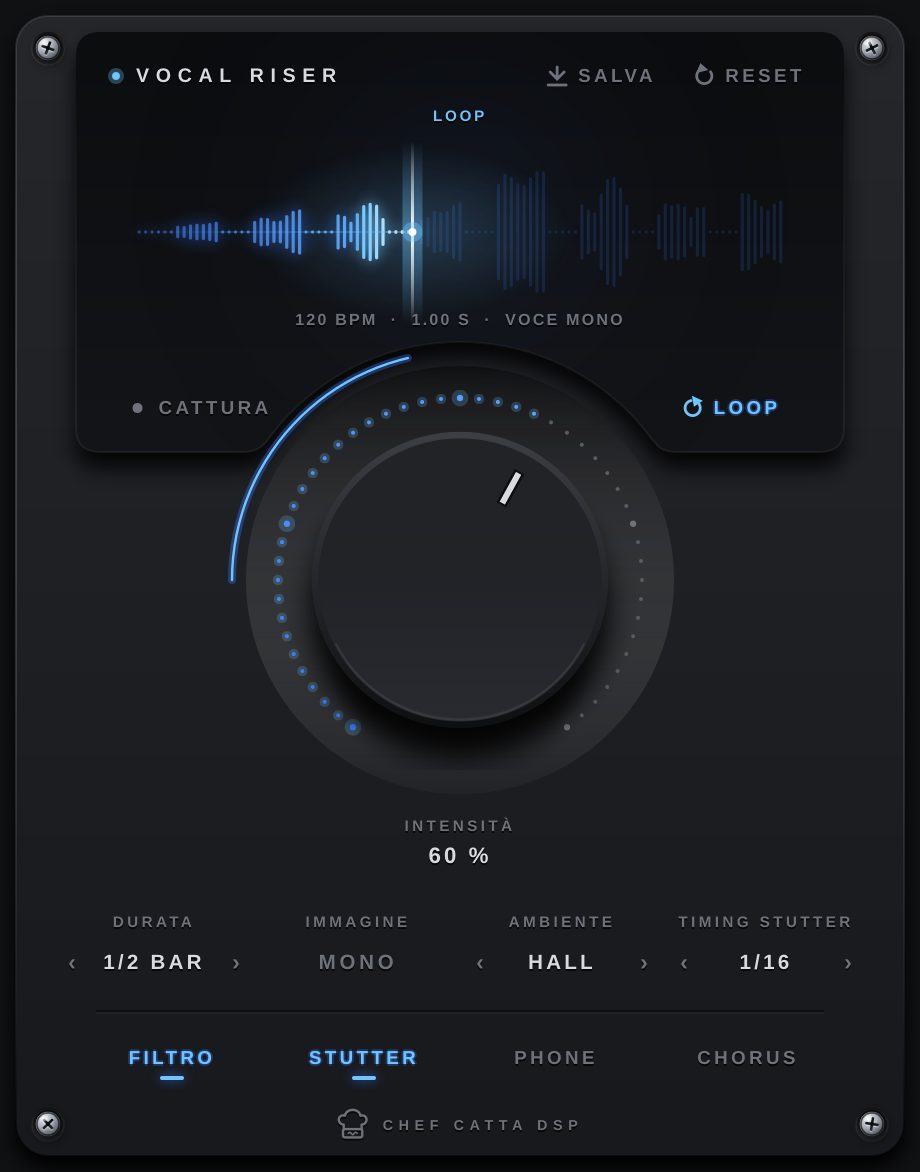
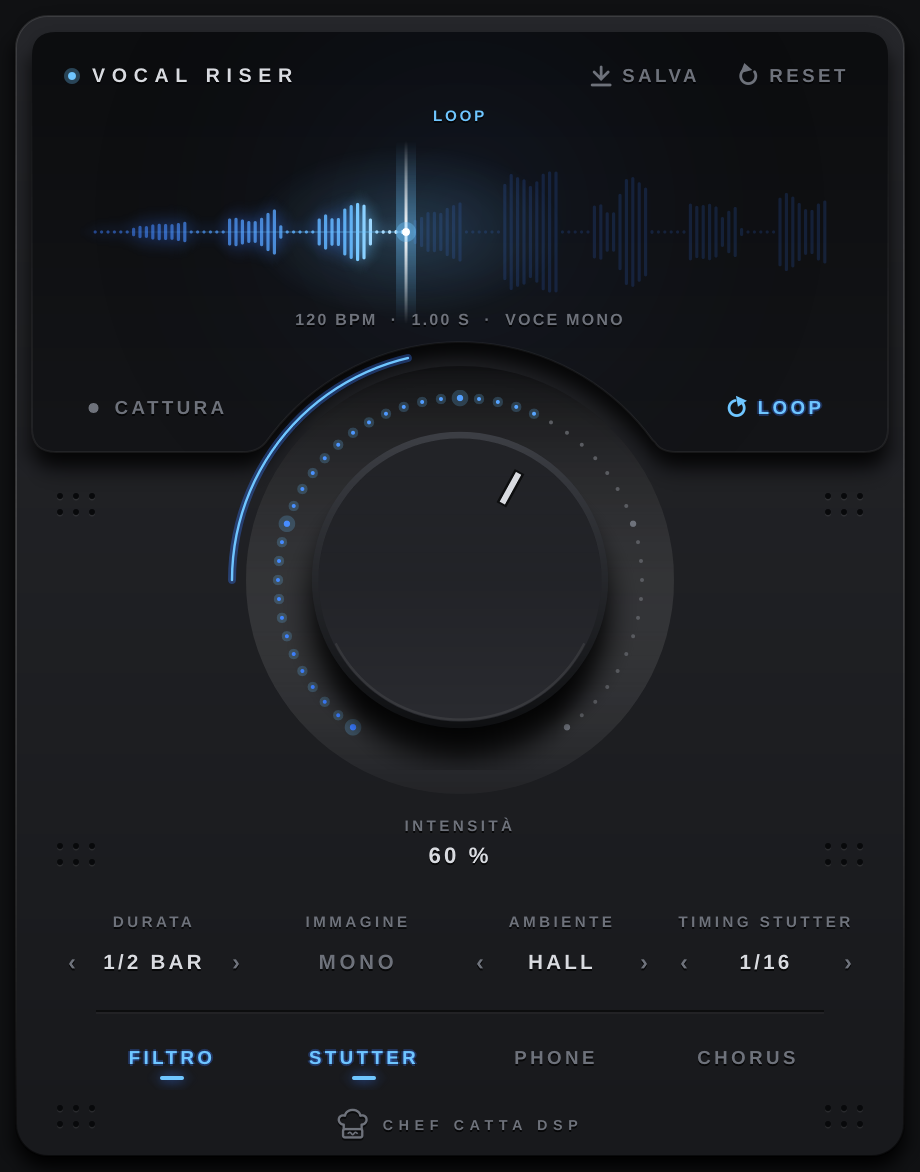
Tolte le viti, forellini decorativi negli spazi vuoti
Claude-Session: https://claude.ai/code/session_01HaF7XKr7HpkpQMPQsrDZc5

diff --git a/Source/PluginEditor.cpp b/Source/PluginEditor.cpp
@@ -410,77 +410,20 @@ void ArrowSelector::paint (juce::Graphics& g)
 }
 
 //==============================================================================
-// Vite a croce in metallo, vista dall'alto con luce da in alto a sinistra
-static void drawScrew (juce::Graphics& g, juce::Point<float> c, float r, float angle)
+// Griglia di forellini incisi nel pannello (decorazione)
+static void drawDotGrid (juce::Graphics& g, juce::Point<float> origin, int cols, int rows, float spacing, float dir = 1.0f)
 {
-    // svasatura: incavo circolare nel pannello in cui siede la vite
-    {
-        const float sr = r * 1.45f;
-        juce::Path s;
-        s.addEllipse (c.x - sr, c.y - sr, sr * 2.0f, sr * 2.0f);
-        g.setGradientFill (juce::ColourGradient (juce::Colour (0xff050607), c.x, c.y - sr,
-                                                 juce::Colour (0xff2a2c31), c.x, c.y + sr, false));
-        g.fillPath (s);
-        g.setColour (juce::Colours::white.withAlpha (0.08f));
-        g.drawEllipse (c.x - sr, c.y - sr + 0.6f, sr * 2.0f, sr * 2.0f, 0.8f);
-    }
-
-    juce::Path head;
-    head.addEllipse (c.x - r, c.y - r, r * 2.0f, r * 2.0f);
-
-    // ombra proiettata sul metallo
-    juce::DropShadow (juce::Colours::black.withAlpha (0.9f), juce::roundToInt (r * 0.9f), { 1, juce::roundToInt (r * 0.35f) }).drawForPath (g, head);
-
-    // rondella
-    const float wr = r * 1.12f;
-    g.setGradientFill (juce::ColourGradient (juce::Colour (0xff9aa0a8), c.x - wr, c.y - wr, juce::Colour (0xff2b2e33), c.x + wr, c.y + wr, false));
-    g.fillEllipse (c.x - wr, c.y - wr, wr * 2.0f, wr * 2.0f);
-
-    // testa bombata: gradiente radiale decentrato verso la luce
-    juce::ColourGradient dome (juce::Colour (0xffe9ecf0), c.x - r * 0.35f, c.y - r * 0.45f,
-                               juce::Colour (0xff3b3f46), c.x + r * 0.9f, c.y + r * 0.9f, true);
-    dome.addColour (0.45, juce::Colour (0xffa3a9b2));
-    dome.addColour (0.8, juce::Colour (0xff5a5f68));
-    g.setGradientFill (dome);
-    g.fillPath (head);
-
-    // finitura spazzolata concentrica, molto leggera
-    for (int i = 1; i < 6; ++i)
-    {
-        const float rr = r * (float) i / 6.0f;
-        g.setColour (juce::Colours::white.withAlpha (i % 2 ? 0.035f : 0.0f));
-        g.drawEllipse (c.x - rr, c.y - rr, rr * 2.0f, rr * 2.0f, 0.6f);
-    }
-
-    // croce Phillips incisa (ombra interna + bordo illuminato)
-    {
-        const float L = r * 0.62f, wdt = r * 0.24f;
-        juce::Path cross;
-        cross.addRoundedRectangle (-L, -wdt * 0.5f, L * 2.0f, wdt, wdt * 0.3f);
-        cross.addRoundedRectangle (-wdt * 0.5f, -L, wdt, L * 2.0f, wdt * 0.3f);
-        cross.setUsingNonZeroWinding (true);
-        const auto tf = juce::AffineTransform::rotation (angle).translated (c);
-
-        g.setColour (juce::Colours::white.withAlpha (0.35f));
-        g.fillPath (cross, tf.translated (0.0f, 0.7f));              // bordo inferiore illuminato
-        g.setGradientFill (juce::ColourGradient (juce::Colour (0xff0d0e10), c.x, c.y - L,
-                                                 juce::Colour (0xff2a2d32), c.x, c.y + L, false));
-        g.fillPath (cross, tf);
-        juce::Path centre;
-        centre.addEllipse (-wdt * 0.7f, -wdt * 0.7f, wdt * 1.4f, wdt * 1.4f);
-        g.setColour (juce::Colour (0xff08090a));
-        g.fillPath (centre, tf);
-    }
-
-    // riflesso speculare
-    juce::ColourGradient spec (juce::Colours::white.withAlpha (0.75f), c.x - r * 0.4f, c.y - r * 0.5f,
-                               juce::Colours::white.withAlpha (0.0f), c.x - r * 0.4f + r * 0.55f, c.y - r * 0.5f, true);
-    g.setGradientFill (spec);
-    g.fillEllipse (c.x - r * 0.85f, c.y - r * 0.9f, r * 0.9f, r * 0.7f);
-
-    // bordo della testa
-    g.setColour (juce::Colours::black.withAlpha (0.55f));
-    g.drawEllipse (c.x - r, c.y - r, r * 2.0f, r * 2.0f, 0.8f);
+    for (int rI = 0; rI < rows; ++rI)
+        for (int cI = 0; cI < cols; ++cI)
+        {
+            const float x = origin.x + dir * (float) cI * spacing;
+            const float y = origin.y + (float) rI * spacing;
+            const float rad = 1.5f;
+            g.setColour (juce::Colours::white.withAlpha (0.07f));               // bordo illuminato in basso
+            g.fillEllipse (x - rad, y - rad + 0.8f, rad * 2.0f, rad * 2.0f);
+            g.setColour (juce::Colour (0xff08090b));                             // foro
+            g.fillEllipse (x - rad, y - rad, rad * 2.0f, rad * 2.0f);
+        }
 }
 
 //==============================================================================
@@ -599,15 +542,6 @@ void VocalRiserAudioProcessorEditor::paint (juce::Graphics& g)
                                              juce::Colours::black.withAlpha (0.6f), 0.0f, shellR.getBottom(), false));
     g.strokePath (shell, juce::PathStrokeType (1.0f));
 
-    // Viti di fissaggio agli angoli del pannello
-    {
-        const float m = 16.0f;
-        const float angles[] = { 0.35f, 1.1f, 0.8f, 0.15f };
-        int k = 0;
-        for (auto c : { shellR.getTopLeft().translated (m, m),    shellR.getTopRight().translated (-m, m),
-                        shellR.getBottomLeft().translated (m, -m), shellR.getBottomRight().translated (-m, -m) })
-            drawScrew (g, c, 5.5f, angles[k++]);
-    }
 
     // Display scuro in alto con l'incavo che abbraccia la manopola
     const auto d = displayArea.toFloat();
@@ -684,6 +618,21 @@ void VocalRiserAudioProcessorEditor::paint (juce::Graphics& g)
     g.setColour (juce::Colours::white.withAlpha (0.04f));
     g.fillRect (shellR.getX() + 40.0f, sepY + 1.0f, shellR.getWidth() - 80.0f, 1.0f);
 
+    // Forellini decorativi negli spazi vuoti ai lati della manopola e in fondo
+    {
+        const float sp = 8.0f;
+        const float lx = shellR.getX() + 22.0f, rx = shellR.getRight() - 22.0f;
+        const float topY = (float) displayArea.getBottom() + 22.0f;
+        const float lowY = (float) intensityArea.getBottom() - 14.0f;
+        drawDotGrid (g, { lx, topY }, 3, 2, sp,  1.0f);
+        drawDotGrid (g, { rx, topY }, 3, 2, sp, -1.0f);
+        drawDotGrid (g, { lx, lowY }, 3, 2, sp,  1.0f);
+        drawDotGrid (g, { rx, lowY }, 3, 2, sp, -1.0f);
+        const float footY = shellR.getBottom() - 24.0f;
+        drawDotGrid (g, { lx, footY }, 3, 2, sp,  1.0f);
+        drawDotGrid (g, { rx, footY }, 3, 2, sp, -1.0f);
+    }
+
     // Firma dello sviluppatore
     {
         const auto sigFont = labelFont (8.0f, 0.35f);
@@ -704,7 +653,7 @@ void VocalRiserAudioProcessorEditor::resized()
     auto shell = getLocalBounds().reduced (8);
 
     // Display in alto
-    displayArea = shell.withHeight (226).reduced (30, 8);   // spazio ai lati per le viti
+    displayArea = shell.withHeight (226).reduced (8, 8);
     const auto d = displayArea.toFloat();
 
     // Manopola: il suo centro sta sotto al display, l'incavo "morde" il bordo inferiore
